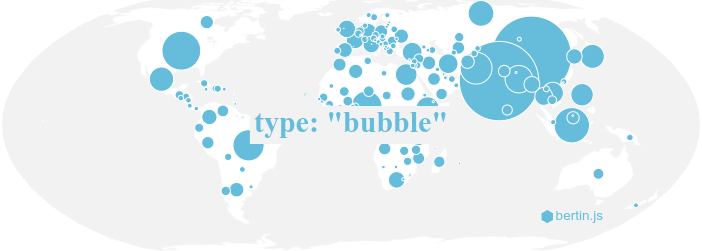
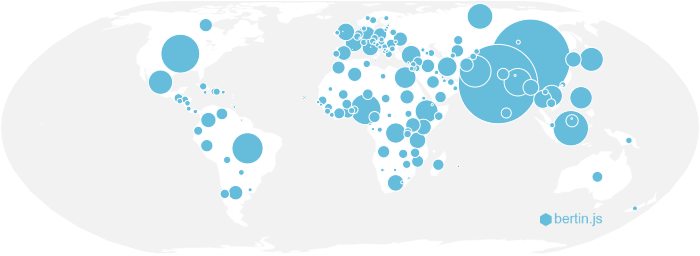
Docs: add images

diff --git a/README.md b/README.md
@@ -191,6 +191,8 @@ Parameters of the legend
 
 The _choro_ type aims to draw Choropleth maps. This kind of representation is especially suitable for relative quantitative data (rates, indices, densities). The choro type can be applied to the fill or stroke property of a simple layer. [Example](https://observablehq.com/@neocartocnrs/bertin-js-chropoleth?collection=@neocartocnrs/bertin).
 
+![](./img/choro.png)
+
 #### Code
 
 ```js
@@ -248,6 +250,9 @@ Parameters of the legend
 
 The _typo_ type allows to realize a qualitative map. The choro type can be applied to the fill or stroke property of a simple layer. [Example](https://observablehq.com/@neocartocnrs/bertin-js-typo?collection=@neocartocnrs/bertin).
 
+
+![](./img/typo.png)
+
 #### Code
 
 ```js
@@ -298,6 +303,8 @@ Parameters of the legend
 
 The _bubble_ type is used to draw a map by proportional circles. [Source](https://github.com/neocarto/bertin/blob/main/src/layers/bubble.js), [Example](https://observablehq.com/@neocartocnrs/bertin-js-prop-symbols?collection=@neocartocnrs/bertin).
 
+![](./img/bubble.png)
+
 #### Code
 
 ```js
@@ -345,6 +352,9 @@ Parameters of the legend
 
 The _regularbubble_ type is used to draw a map by proportional circles in a regular grid. [Source](https://github.com/neocarto/bertin/blob/main/src/layers/regularbubble.js), [Example](https://observablehq.com/@neocartocnrs/bertin-js-regular-bubbles?collection=@neocartocnrs/bertin).
 
+
+![](./img/regularbubble.png)
+
 #### Code
 
 ```js
@@ -371,6 +381,8 @@ All other parameters are the same as for the bubble layer
 ### Stock and ratio
 
 In thematic mapping, we often have to represent an absolute quantitative data with a size variation and relative quantitative data with color variations. For this we can use the bubble type and the choro type together. [Example](https://observablehq.com/d/31a3309790d7bed9?collection=@neocartocnrs/bertin).
+
+![](./img/bubblechoro.png)
 
 #### Code
 
@@ -399,6 +411,8 @@ bertin.draw({
 
 In thematic mapping, we often have to represent an absolute quantitative data with a size variation and relative quantitative data with color variations. For this we can use the bubble type and the typo type together. [Example](https://observablehq.com/d/8c9b22ccdffc718d?collection=@neocartocnrs/bertin).
 
+![](./img/bubbletypo.png)
+
 #### Code
 
 ```js
@@ -421,6 +435,8 @@ bertin.draw({
 
 The _dorling_ parameter can be used with the _bubble_ type to design a Dorling cartogram. [Example](https://observablehq.com/@neocartocnrs/bertin-js-dorling-cartogram?collection=@neocartocnrs/bertin).
 
+![](./img/dorling.png)
+
 #### Code
 
 ```js
@@ -442,6 +458,8 @@ bertin.draw({
 ### Dot cartogram
 
 The _dotcartogram_ type is a method of map representation that follows Dorling's cartograms and dot density maps. The data from each territorial unit are dissolved in such a way that a dot represents a constant quantity, the same on the whole map. [Source](https://github.com/neocarto/bertin/blob/main/src/layers/dotcartogram.js) [Example](https://observablehq.com/@neocartocnrs/bertin-js-dots-cartograms?collection=@neocartocnrs/bertin).
+
+![](./img/dotcartogram.png)
 
 #### Code
 
@@ -503,6 +521,8 @@ Parameters of the legend
 
 The _mushroom_ type is used to draw a map with 2 superposed proportional semi-circles. This type of representation can be used when two data with the same order of magnitude need to be compressed. [Source](https://github.com/neocarto/bertin/blob/main/src/layers/mushroom.js), [Example](https://observablehq.com/d/3c51f698ba19546c?collection=@neocartocnrs/bertin).
 
+![](./img/mushroom.png)
+
 #### Code
 
 ```js
@@ -555,6 +575,8 @@ Parameters of the legend
 
 The _dotdensity_ type allows to display a doty density layer geojson layer from polygons and attribute data. [Source](https://github.com/neocarto/bertin/blob/main/src/layers/dotdensity.js). [Example](https://observablehq.com/@neocartocnrs/bertin-js-dot-density-map-bertin?collection=@neocartocnrs/bertin)
 
+![](./img/dotdensity.png)
+
 #### Code
 
 ```js
@@ -601,10 +623,11 @@ Parameters of the legend
 - **leg_fillOpacity**: stroke opacity (same as the layer displayed)
 - **leg_txtcol**: color of the text (default: "#363636")
 
-
 ### Spikes
 
 The _spikes_ type is used to draw a map with spikes. [Source](https://github.com/neocarto/bertin/blob/main/src/layers/spikes.js), [Example](https://observablehq.com/d/12446a15a2642907?collection=@neocartocnrs/bertin).
+
+![](./img/spikes.png)
 
 #### Code
 
@@ -652,11 +675,12 @@ Parameters of the legend
 
 On each layer, you can dynamically vary the thickness of the paths. This can be useful to make for example flow maps or discontinuity maps. [Source](https://github.com/neocarto/bertin/blob/main/src/helpers/thickness.js)
 
-
-
 #### Code - Constant Thickness
 
 In order for each object to have the same thickness.
+
+![](./img/thickness.png)
+
 
 ```js
 bertin.draw({
@@ -673,6 +697,8 @@ bertin.draw({
 #### Code - Linear variation
 
 To vary the thickness proportionally to an quantitative data.
+
+![](./img/flows.png)
 
 ```js
 bertin.draw({
@@ -693,7 +719,6 @@ bertin.draw({
 - **fixmax**: Max value to fix the size of the thickest line, in order to make maps comparable (default:undefined)
 - **fixmin**: Min value to fix the size of the thinest line. If true, the value is the min data. (default:0)
 
-
 #### Code - Discrete variation
 
 To vary the thickness according to classes values
@@ -709,7 +734,6 @@ bertin.draw({
   ]
 })
 ```
-
 #### Parameters
 
 - **values**: a string corresponding to the targeted variable in the properties(compulsory)
@@ -725,6 +749,9 @@ bertin.draw({
 #### Code - Categories
 
 To vary the thickness according to qualitative data.
+
+![](./img/thickness_categories.png)
+
 
 ```js
 bertin.draw({
@@ -767,6 +794,8 @@ bertin.draw({
 
 The _footer_ type allows to display text under the map. This is useful to display sources. [Source](https://github.com/neocarto/bertin/blob/main/src/layers/footer.js).
 
+![](./img/footer.png)
+
 #### Code
 
 ```js
@@ -794,6 +823,8 @@ bertin.draw({
 
 The _graticule_ type allows you to display the latitude and longitude lines. [Source](https://github.com/neocarto/bertin/blob/main/src/layers/graticule.js).
 
+![](./img/graticule.png)
+
 #### Code
 
 ```js
@@ -820,6 +851,8 @@ bertin.draw({
 
 The _hatch_ type only allows to add hatchings on the whole page to make it a bit prettier. [Source](https://github.com/neocarto/bertin/blob/main/src/layers/hatch.js).
 
+![](./img/hatch.png)
+
 #### Code
 
 ```js
@@ -832,7 +865,6 @@ bertin.draw({
   ],
 });
 ```
-
 #### Parameters
 
 - **stroke**: stroke color (default: "#786d6c")
@@ -842,10 +874,11 @@ bertin.draw({
 - **angle**: orientation of lines (default: 45)
 - **spacing**: spacing between lines (default: 8)
 
-
 ### Inner
 
 The _inner_ type allows to display a strip inside the polygon. This inner area can be used to draw preet maps with a vintage style.
+
+![](./img/inner.png)
 
 #### Code
 
@@ -873,6 +906,8 @@ bertin.draw({
 
 The rhumbs type allows to display "rhumb lines" like on old [portolan charts](https://en.wikipedia.org/wiki/Portolan_chart).  [Source](https://github.com/neocarto/bertin/blob/main/src/layers/rhumbs.js).
 
+![](./img/rhumbs.png)
+
 #### Code
 
 ```js
@@ -899,6 +934,8 @@ bertin.draw({
 #### Water lines (slow/experimental)
 
 The _waterlines_ type only allows to display lines spaced by a defined distance. It's just a graphic trick to make the maps look nice.   [Source](https://github.com/neocarto/bertin/blob/main/src/layers/waterlines.js).
+
+![](./img/waterlines.png)
 
 #### Code
 
@@ -931,6 +968,8 @@ bertin.draw({
 
 The logo type only allows allows to display a logo on the map from an url. By default, the bertin.js logo is displayed. [Source](https://github.com/neocarto/bertin/blob/main/src/layers/logo.js) [Example](https://observablehq.com/@neocartocnrs/bertin-logo).
 
+![](./img/logolayer.png)
+
 #### Code
 
 ```js
@@ -951,10 +990,11 @@ bertin.draw({
 - **position**: an array of two cootdinates [x, y] or predefined positions as "left", "right" or "middle" (default: "left")
 - **size**: width of the logo. (default: 100)
 
-
 ### Header
 
 The _header_ type allows to display a title above the map. [Source](https://github.com/neocarto/bertin/blob/main/src/layers/header.js).
+
+![](./img/header.png)
 
 #### Code
 
@@ -982,6 +1022,8 @@ bertin.draw({
 ### Labels
 
 The _label_ type allows to display labels from a geojson. [Source](https://github.com/neocarto/bertin/blob/main/src/layers/label.js), [Example](https://observablehq.com/@neocartocnrs/bertin-js-texts).
+
+![](./img/labels.png)
 
 #### Code
 
@@ -1055,6 +1097,8 @@ Parameters of the legend
 
 The _outline_ type is used to display the limits of the earth area in the given projection. [Source](https://github.com/neocarto/bertin/blob/main/src/layers/missing.js).
 
+![](./img/outline.png)
+
 #### Code
 
 ```js
@@ -1101,6 +1145,8 @@ bertin.draw({
 ### Shadow
 
 The _shadow_ type allows to display a shadow under a layer to give it a relief effect. [Source](https://github.com/neocarto/bertin/blob/main/src/layers/shadow.js).
+
+![](./img/shadow.png)
 
 #### Code
 
@@ -1167,6 +1213,8 @@ bertin.draw({
 ### Mercator Tiles
 
 The _tiles_ type allow to display a raster basemap. [Source](https://github.com/neocarto/bertin/blob/main/src/layers/tile.js). [Example](https://observablehq.com/@neocartocnrs/bertin-js-tiles?collection=@neocartocnrs/bertin).
+
+![](./img/tile.png)
 
 **NB: ** It works only with the d3.geoMercator() projection. if tiles layer is used is the *draw* function, the projection is automaticaly setted to d3.geoMercator(). And you can't change it.  
 
@@ -1241,7 +1289,6 @@ bertin.properties.filter({
 ### properties.head
 
 *properties.head* allows to get the n top values from a given field.This function return a new object and do not modify the initial object. [Example](https://observablehq.com/@neocartocnrs/bertins-js-deal-with-with-geojson-properties?collection=@neocartocnrs/bertin). [Code](https://github.com/neocarto/bertin/blob/main/src/properties.js).
-
 
 #### Code
 
@@ -1328,6 +1375,7 @@ bertin.properties.subset({
 ```js
 bertin.properties.table(*a geojson*)
 ```
+
 ### properties.head
 
 *properties.tail* allows to get the n bottom values from a given field. This function return a new object and do not modify the initial object. [Example](https://observablehq.com/@neocartocnrs/bertins-js-deal-with-with-geojson-properties?collection=@neocartocnrs/bertin). [Code](https://github.com/neocarto/bertin/blob/main/src/properties.js).
@@ -1445,6 +1493,8 @@ testjoin.unmatched_geom;
 ### Merge
 
 _merge_ is a function to join a geojson and a data file. This is the first step in the mapping process. [Source](https://github.com/neocarto/bertin/blob/main/src/merge.js), [Example](https://observablehq.com/d/608ed06a679bfeca?collection=@neocartocnrs/bertin).
+
+![](./img/merge.png)
 
 #### Code
 
